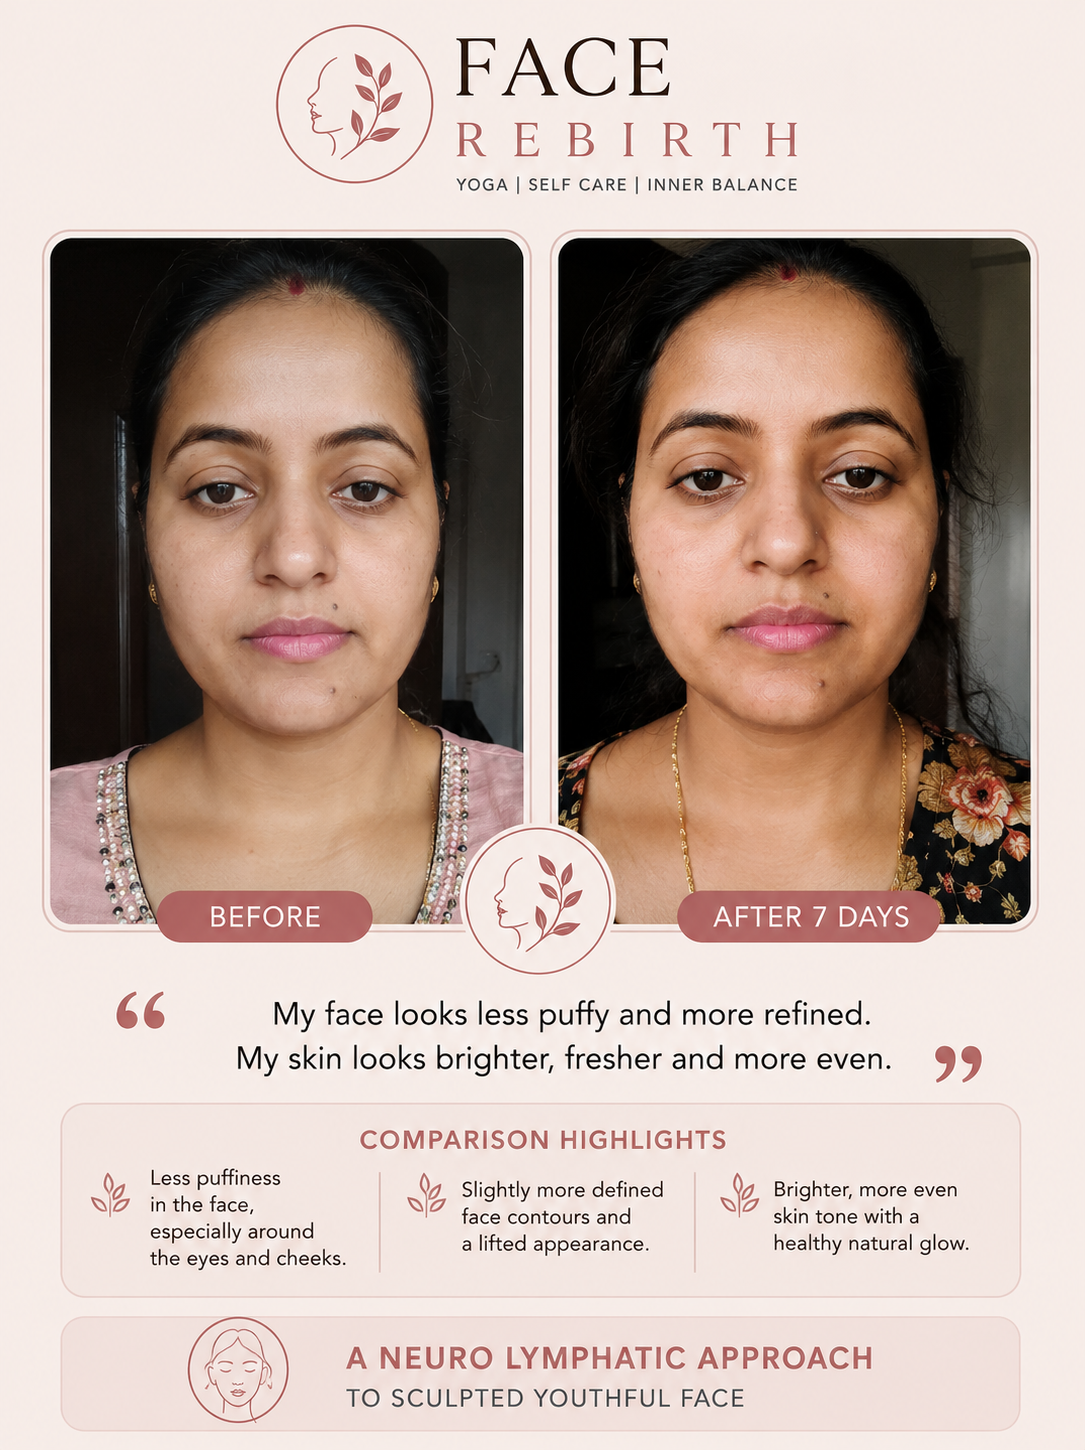
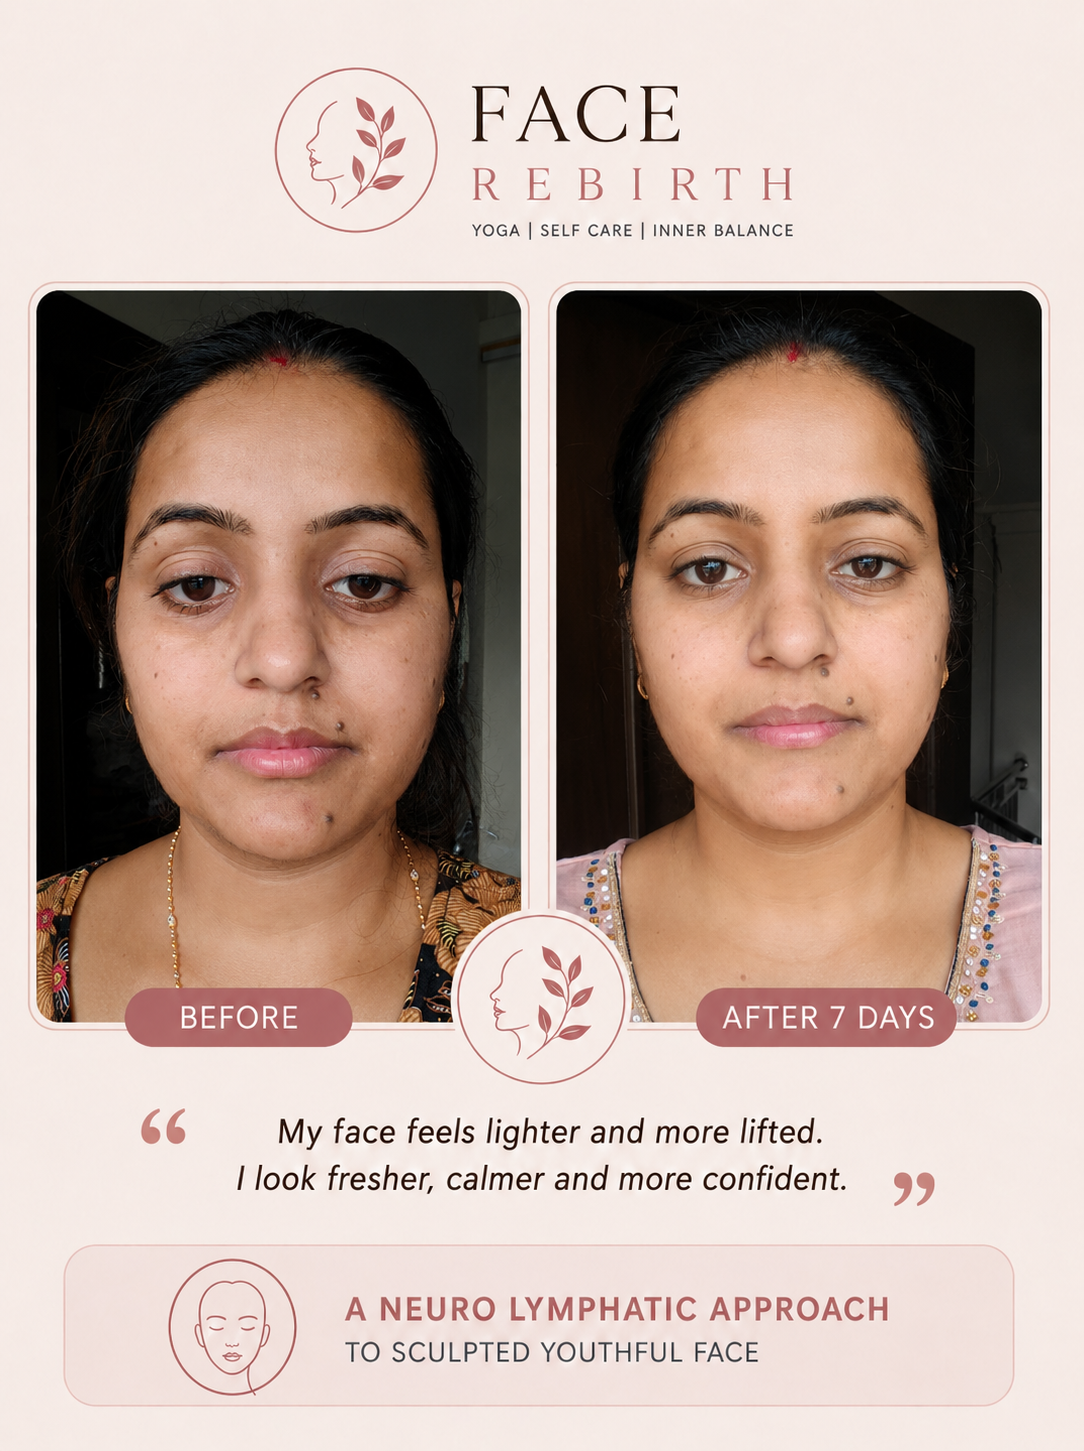
feat: update testimonial image and alt text for improved clarity

diff --git a/website/src/pages/index.tsx b/website/src/pages/index.tsx
@@ -333,7 +333,7 @@ export default function Home(): ReactNode {
 						/>
 						<img
 							src={useBaseUrl('img/testimonials/face-rebirth-testimonial-3.png')}
-							alt='Participant before and after seven days, sharing that her face looks less puffy and her skin looks brighter and more even.'
+							alt='Participant before and after seven days, sharing that her face feels lighter and more lifted and she looks fresher and calmer.'
 							loading='lazy'
 						/>
 					</div>
